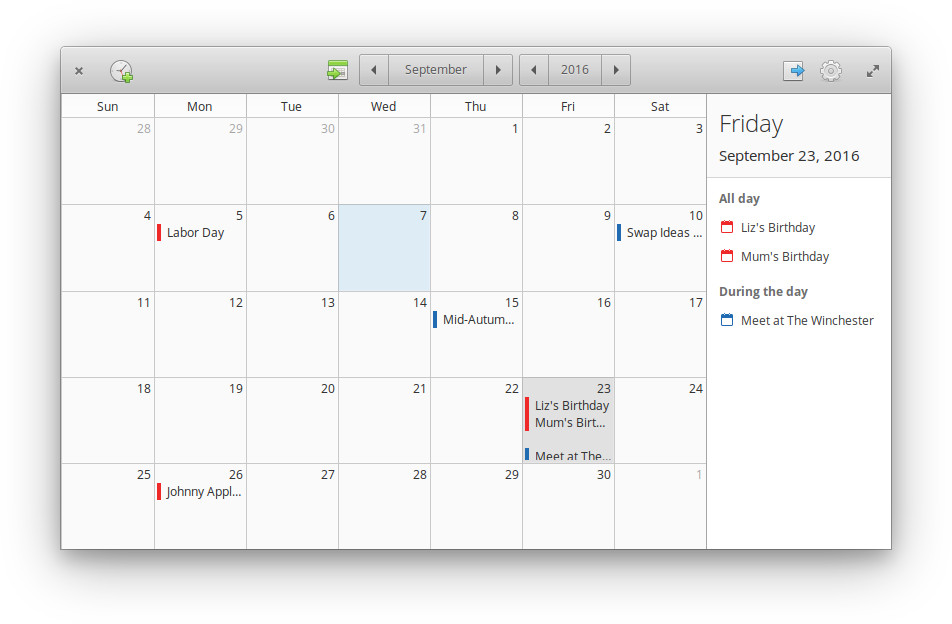
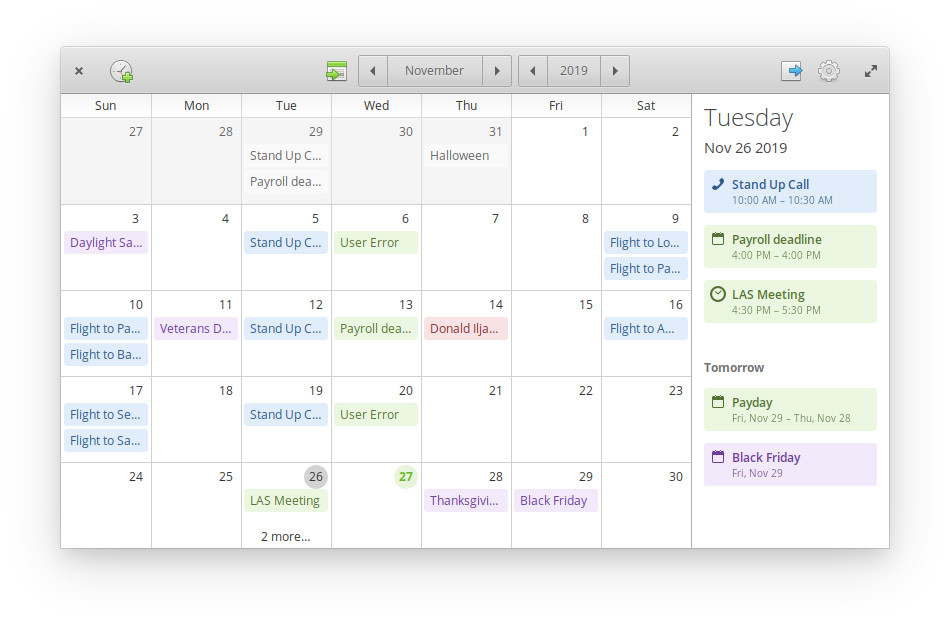
Update Calendar screenshots (#2293)
* Update Calendar screenshots

* Optimize and add JPGs

diff --git a/index.php b/index.php
@@ -295,7 +295,7 @@
                 </div>
                 <div class="showcase-tab" id="showcase-calendar">
                     <div class="app-display">
-                        <img class="app-display__image" src="images/screenshots/calendar.png" alt="calendar screenshot" />
+                        <img class="app-display__image" src="images/screenshots/calendar.png" srcset="images/screenshots/calendar@2x.png 2x" alt="calendar screenshot" />
                         <div class="app-display__description">
                             <img src="images/icons/apps/64/office-calendar.svg" alt="calendar icon" />
                             <div>
